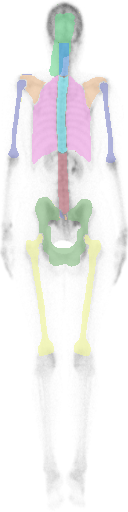
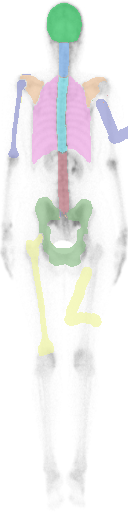
back DONE!

diff --git a/templates/label_back.html b/templates/label_back.html
@@ -64,15 +64,19 @@
 						<Label value="Skull" background="rgba(21, 193, 78, 0.7)"/>
 						<Label value="Cervical Vert" background="rgba(0, 121, 255, 0.7)"/>
 						<Label value="Thoracic Vert" background="rgba(0, 228, 255, 0.7)"/>
-						<Label value="Clavicle" background="rgba(109, 21, 193, 0.7)"/>
+						<Label value="Clavicle_r" background="rgba(109, 21, 193, 0.7)"/>
+						<Label value="Clavicle_l" background="rgba(109, 21, 193, 0.7)"/>
 						<Label value="Ribs" background="rgba(228, 70, 206, 0.7)"/>
-						<Label value="Scapula" background="rgba(224, 131, 46, 0.7)"/>
+						<Label value="Scapula_r" background="rgba(224, 131, 46, 0.7)"/>
+						<Label value="Scapula_l" background="rgba(224, 131, 46, 0.7)"/>
 						<Label value="Sternum" background="rgba(129, 64, 4, 0.7)"/>
-						<Label value="Humerus" background="rgba(14, 24, 156, 0.7)"/>
+						<Label value="Humerus_r" background="rgba(14, 24, 156, 0.7)"/>
+						<Label value="Humerus_l" background="rgba(14, 24, 156, 0.7)"/>
 						<Label value="Lumbar Vert" background="rgba(235, 210, 52, 0.7)"/>
 						<Label value="Sacrum" background="rgba(255, 122, 0, 0.7)"/>
 						<Label value="Pelvis" background="rgba(16, 119, 7, 0.7)"/>
-						<Label value="Femur" background="rgba(225, 235, 52, 0.7)"/>
+						<Label value="Femur_r" background="rgba(225, 235, 52, 0.7)"/>
+						<Label value="Femur_l" background="rgba(225, 235, 52, 0.7)"/>
 					</BrushLabels>
 				</View>
 			  `,

diff --git a/module/decode.py b/module/decode.py
@@ -98,17 +98,14 @@ def convert_to_png(path, pos):
     elif img_name == 'ThoracicVert':
         r, g, b, a = 0, 228, 255, 190
     elif img_name == 'Clavicle_r' or img_name == 'Clavicle_l':
-        print("masuk clavicle")
         r, g, b, a = 109, 21, 193, 190
     elif img_name == 'Ribs':
         r, g, b, a = 228, 70, 206, 190
     elif img_name == 'Scapula_r' or img_name == 'Scapula_l':
-        print("masuk scapula")
         r, g, b, a = 224, 131, 46, 190
     elif img_name == 'Sternum':
         r, g, b, a = 129, 64, 4, 190
     elif img_name == 'Humerus_r' or img_name == 'Humerus_l':
-        print("masuk humerus")
         r, g, b, a = 14, 24, 156, 190
     elif img_name == 'LumbarVert':
         r, g, b, a = 166, 5, 29, 190
@@ -117,7 +114,6 @@ def convert_to_png(path, pos):
     elif img_name == 'Pelvis':
         r, g, b, a = 16, 119, 7, 190
     elif img_name == 'Femur_r' or img_name == 'Femur_l':
-        print("masuk femur")
         r, g, b, a = 225, 235, 52, 190
     else:
         r, g, b, a = 255, 255, 255, 190
@@ -173,9 +169,7 @@ def convert_to_png(path, pos):
     # save new image
     if(pos == 'back'):
       img.save(f"./static/img_annotation/back/{img_name}.png")
-      # img.save("image_back_done.png")
     else:
       img.save(f"./static/img_annotation/front/{img_name}.png")
-      # img.save("image_front_done.png")
 
     new_image = []
